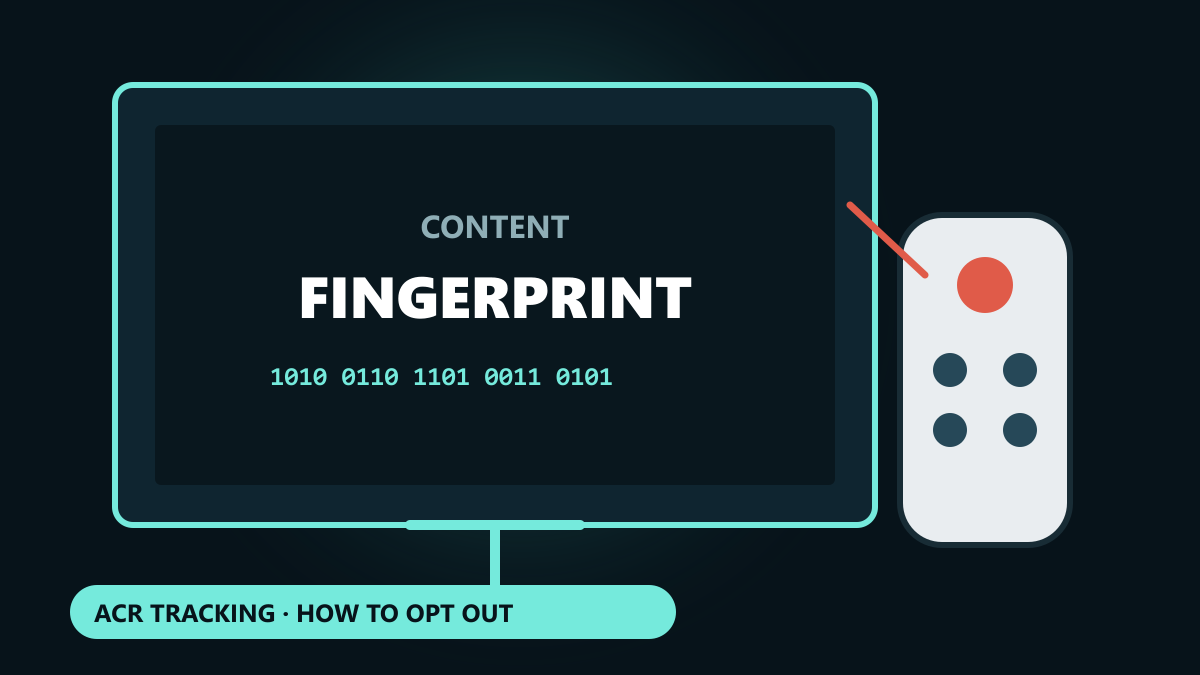
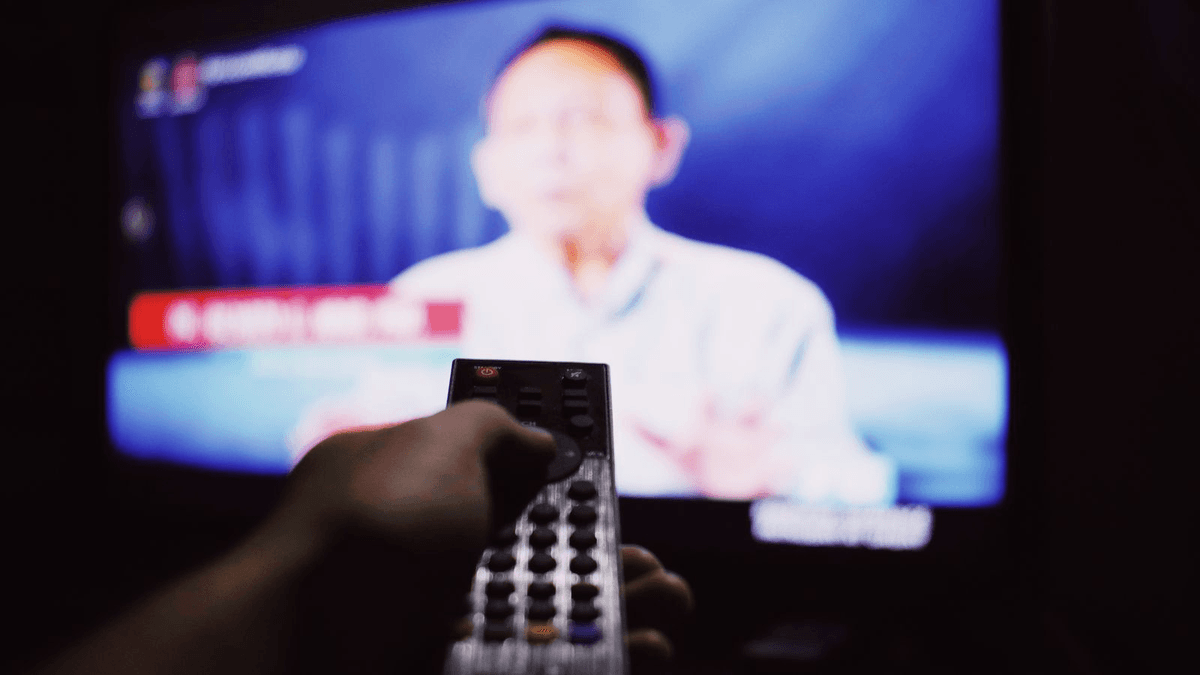
feat: improve smart TV ACR visuals

diff --git a/README.md b/README.md
@@ -29,7 +29,7 @@ The Noise Filter translates complex technological disruptions, corporate policy 
 ## 🎨 Visual & Editorial Guardrails
 
 - **Expressive Editorial Covers**: Avoids sterile laptop stock photography. Uses candid human emotion (financial analysts reacting to market shocks, intense focus, contemplation), authentic tech hardware, and bold dark-mode magazine aesthetics.
-- **Authentic Reference Visuals Over Pure AI (본문 실사 레퍼런스 우선)**: Avoid generic synthetic PPT cards. Every explainer features at least 2 inline visuals (Figure 1, Figure 2) actively prioritizing **real physical reference photography** (real 300mm patterned silicon wafer dies, SEM cross-sections, cleanroom photolithography labs under inactinic yellow light, Three Mile Island cooling towers, 500kV/230kV transmission lines from Wikimedia Commons / CC0) and **official regulatory dockets (FERC, PJM, SEC)**.
+- **Authentic Reference Visuals Over Pure AI (본문 실사 레퍼런스 우선)**: “Visuals must show, not merely decorate.” Avoid generic synthetic PPT cards and fixed image quotas. Choose the smallest useful mix for each explainer while prioritizing **real physical reference photography** (real 300mm patterned silicon wafer dies, SEM cross-sections, cleanroom photolithography labs under inactinic yellow light, Three Mile Island cooling towers, 500kV/230kV transmission lines from Wikimedia Commons / CC0) and **official regulatory dockets (FERC, PJM, SEC)**.
 - **Subpath Safety Rule (`/the-noise-filter/images/...`)**: Because the site is served on the `/the-noise-filter/` base path, all markdown image links MUST use `/the-noise-filter/images/...` to prevent 404 broken images.
 - **Anti-PPT Minimalist Schematics**: When synthesizing technical flows, use clean white/transparent Stripe-style schematics rendered at 2x Retina HiDPI (2400×1350) via local headless Chrome, NEVER dark presentation slide cards.
 - **Human Title Brevity Standard**: Strictly eliminate 50+ character academic AI titles. Keep titles concise (20~35 chars), punchy, and conversational.

diff --git a/src/content/posts/smart-tv-acr-tracking-opt-out.md b/src/content/posts/smart-tv-acr-tracking-opt-out.md
@@ -14,7 +14,7 @@ tags:
   - acr
 description: "Automatic content recognition can identify shows, ads, and HDMI input viewing. Here are the current Roku, Samsung, LG, and Vizio opt-out paths—and what they do not disable."
 ogImage: "images/smart-tv-acr-tracking-opt-out-cover.png"
-coverAlt: "A television screen reduced to a content fingerprint while a remote points toward a clear privacy switch."
+coverAlt: "A hand points a remote control at a television during everyday viewing."
 quickFilter:
   changed: "TV makers now describe ACR controls more explicitly, but the switch remains separate from ad personalization, voice data, app accounts, and platform analytics."
   matters: "ACR can identify content from live TV and HDMI-connected devices, so using a separate streaming box does not always put that viewing outside the TV's measurement layer."
